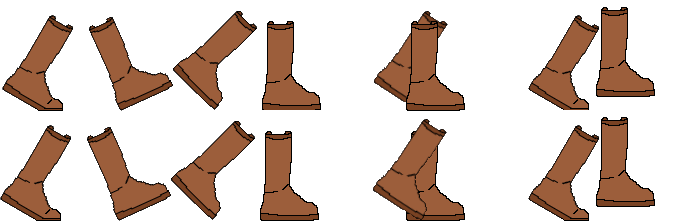
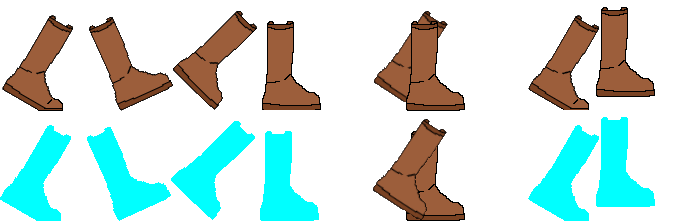
fun

Changed region(s): [[0.0, 0.543, 0.4855, 1.0], [0.7587, 0.5158, 0.9711, 1.0]]

diff --git a/Fun/js/Game2.js b/Fun/js/Game2.js
@@ -17,8 +17,13 @@ class Game extends Phaser.Scene{
     }
 
     create() {
-        this.boots = this.add.sprite(400, 300, 'boots');
-        this.boots.setScale(1/3);
+        this.boots = this.physics.add.sprite(400, 300, 'boots');
+        //this.boots.setScale(1/3);
+        this.boots.setCollideWorldBounds(true);
+        this.girl = this.physics.add.sprite(400, 300, 'girl');
+        this.girl.setScale(1/3);
+        this.girl.setCollideWorldBounds(true);
+        this.girl.visible = false;
         this.idle = false;
         this.facing = "right";
         this.timer = this.time.addEvent({delay: 10000});
@@ -27,6 +32,7 @@ class Game extends Phaser.Scene{
         this.guy.setSize(16, 32);
         this.guy.setScale(4);
         this.guy.setCollideWorldBounds(true);
+        this.guy.visible = false;
         this.cursorKeys = this.input.keyboard.createCursorKeys();
         this.jumpKey = this.input.keyboard.addKey(Phaser.Input.Keyboard.KeyCodes.SPACE);
         this.ground = this.physics.add.staticGroup();
@@ -61,47 +67,21 @@ class Game extends Phaser.Scene{
     playerMovementManager() {
         // Directional movement
         if(this.cursorKeys.left.isDown){
+            this.girl.visible = false;
             this.facing = "left";
-            this.guy.setVelocityX(-400);
-            this.guy.flipX = true;
-            this.guy.anims.play("guy_walk", true);
+            this.boots.setVelocityX(-400);
+            this.boots.flipX = true;
+            this.boots.anims.play("boot_walk", true);
         }else if(this.cursorKeys.right.isDown){
+            this.girl.visible = false;
             this.facing = "right";
             this.boots.setVelocityX(400);
             this.boots.flipX = false;
             this.boots.anims.play("boot_walk", true);
-        }else if(this.cursorKeys.up.isDown){
-            this.guy.setVelocityX(0);
-            if(this.facing == "left"){
-                this.guy.flipX = true;
-            }
-            if(this.guy.x == 768 || this.guy.x == 32){
-                this.guy.setVelocityY(-100);
-            }
-            this.guy.anims.play("guy_wall", true);
-        }
-        else{
-            this.guy.setVelocityX(0);
-            this.guy.anims.play("guy_idle", true);
-        }
-        if(!this.guy.body.onFloor()){
-            if(this.cursorKeys.left.isDown){
-                this.facing = "left"
-                this.guy.setVelocityX(-400);
-            }else if(this.cursorKeys.right.isDown){
-                this.facing = "right";
-                this.guy.setVelocityX(400);
-            }
-        }
-        if(!this.guy.body.onFloor() && !(this.guy.x == 768 || this.guy.x == 32)){
-            this.guy.anims.play("guy_jump", true);
-        }
-        if(this.jumpKey.isDown && this.guy.body.onFloor()){
-            if(this.facing == "left"){
-                this.guy.flipX = true;
-            }
-            this.guy.setVelocityY(-300);
-            this.guy.anims.play("guy_jump", true);
+        }else{
+            this.boots.setVelocityX(0);
+            this.girl.x = this.boots.x;
+            this.girl.y = this.boots.y;
         }
     }
 }

diff --git a/Fun/js/Preloader2.js b/Fun/js/Preloader2.js
@@ -25,7 +25,8 @@ class Preloader extends Phaser.Scene{
         this.load.audio('titleMusic', ['assets/Poppers and Prosecco.mp3']);
         this.load.spritesheet('guy', 'assets/guy.png', {frameWidth: 16, frameHeight: 32});
         this.load.image('ground', 'assets/ground.png');
-        this.load.spritesheet('boots', 'assets/Boot walk.png', {frameWidth: 173, frameHeight: 111});
+        this.load.spritesheet('boots', 'assets/Boots walk.png', {frameWidth: 173, frameHeight: 111});
+        this.load.image('girl', 'assets/Character.png');
         //  + lots of other required assets here
     }
 
@@ -66,8 +67,8 @@ class Preloader extends Phaser.Scene{
         });
         this.anims.create({
             key: "boot_walk",
-            frames: this.anims.generateFrameNumbers('boots', { start: 0, end: 7 }),
-            frameRate: 8,
+            frames: this.anims.generateFrameNumbers('boots', { start: 4, end: 7 }),
+            frameRate: 2,
             repeat: -1
         });
 
